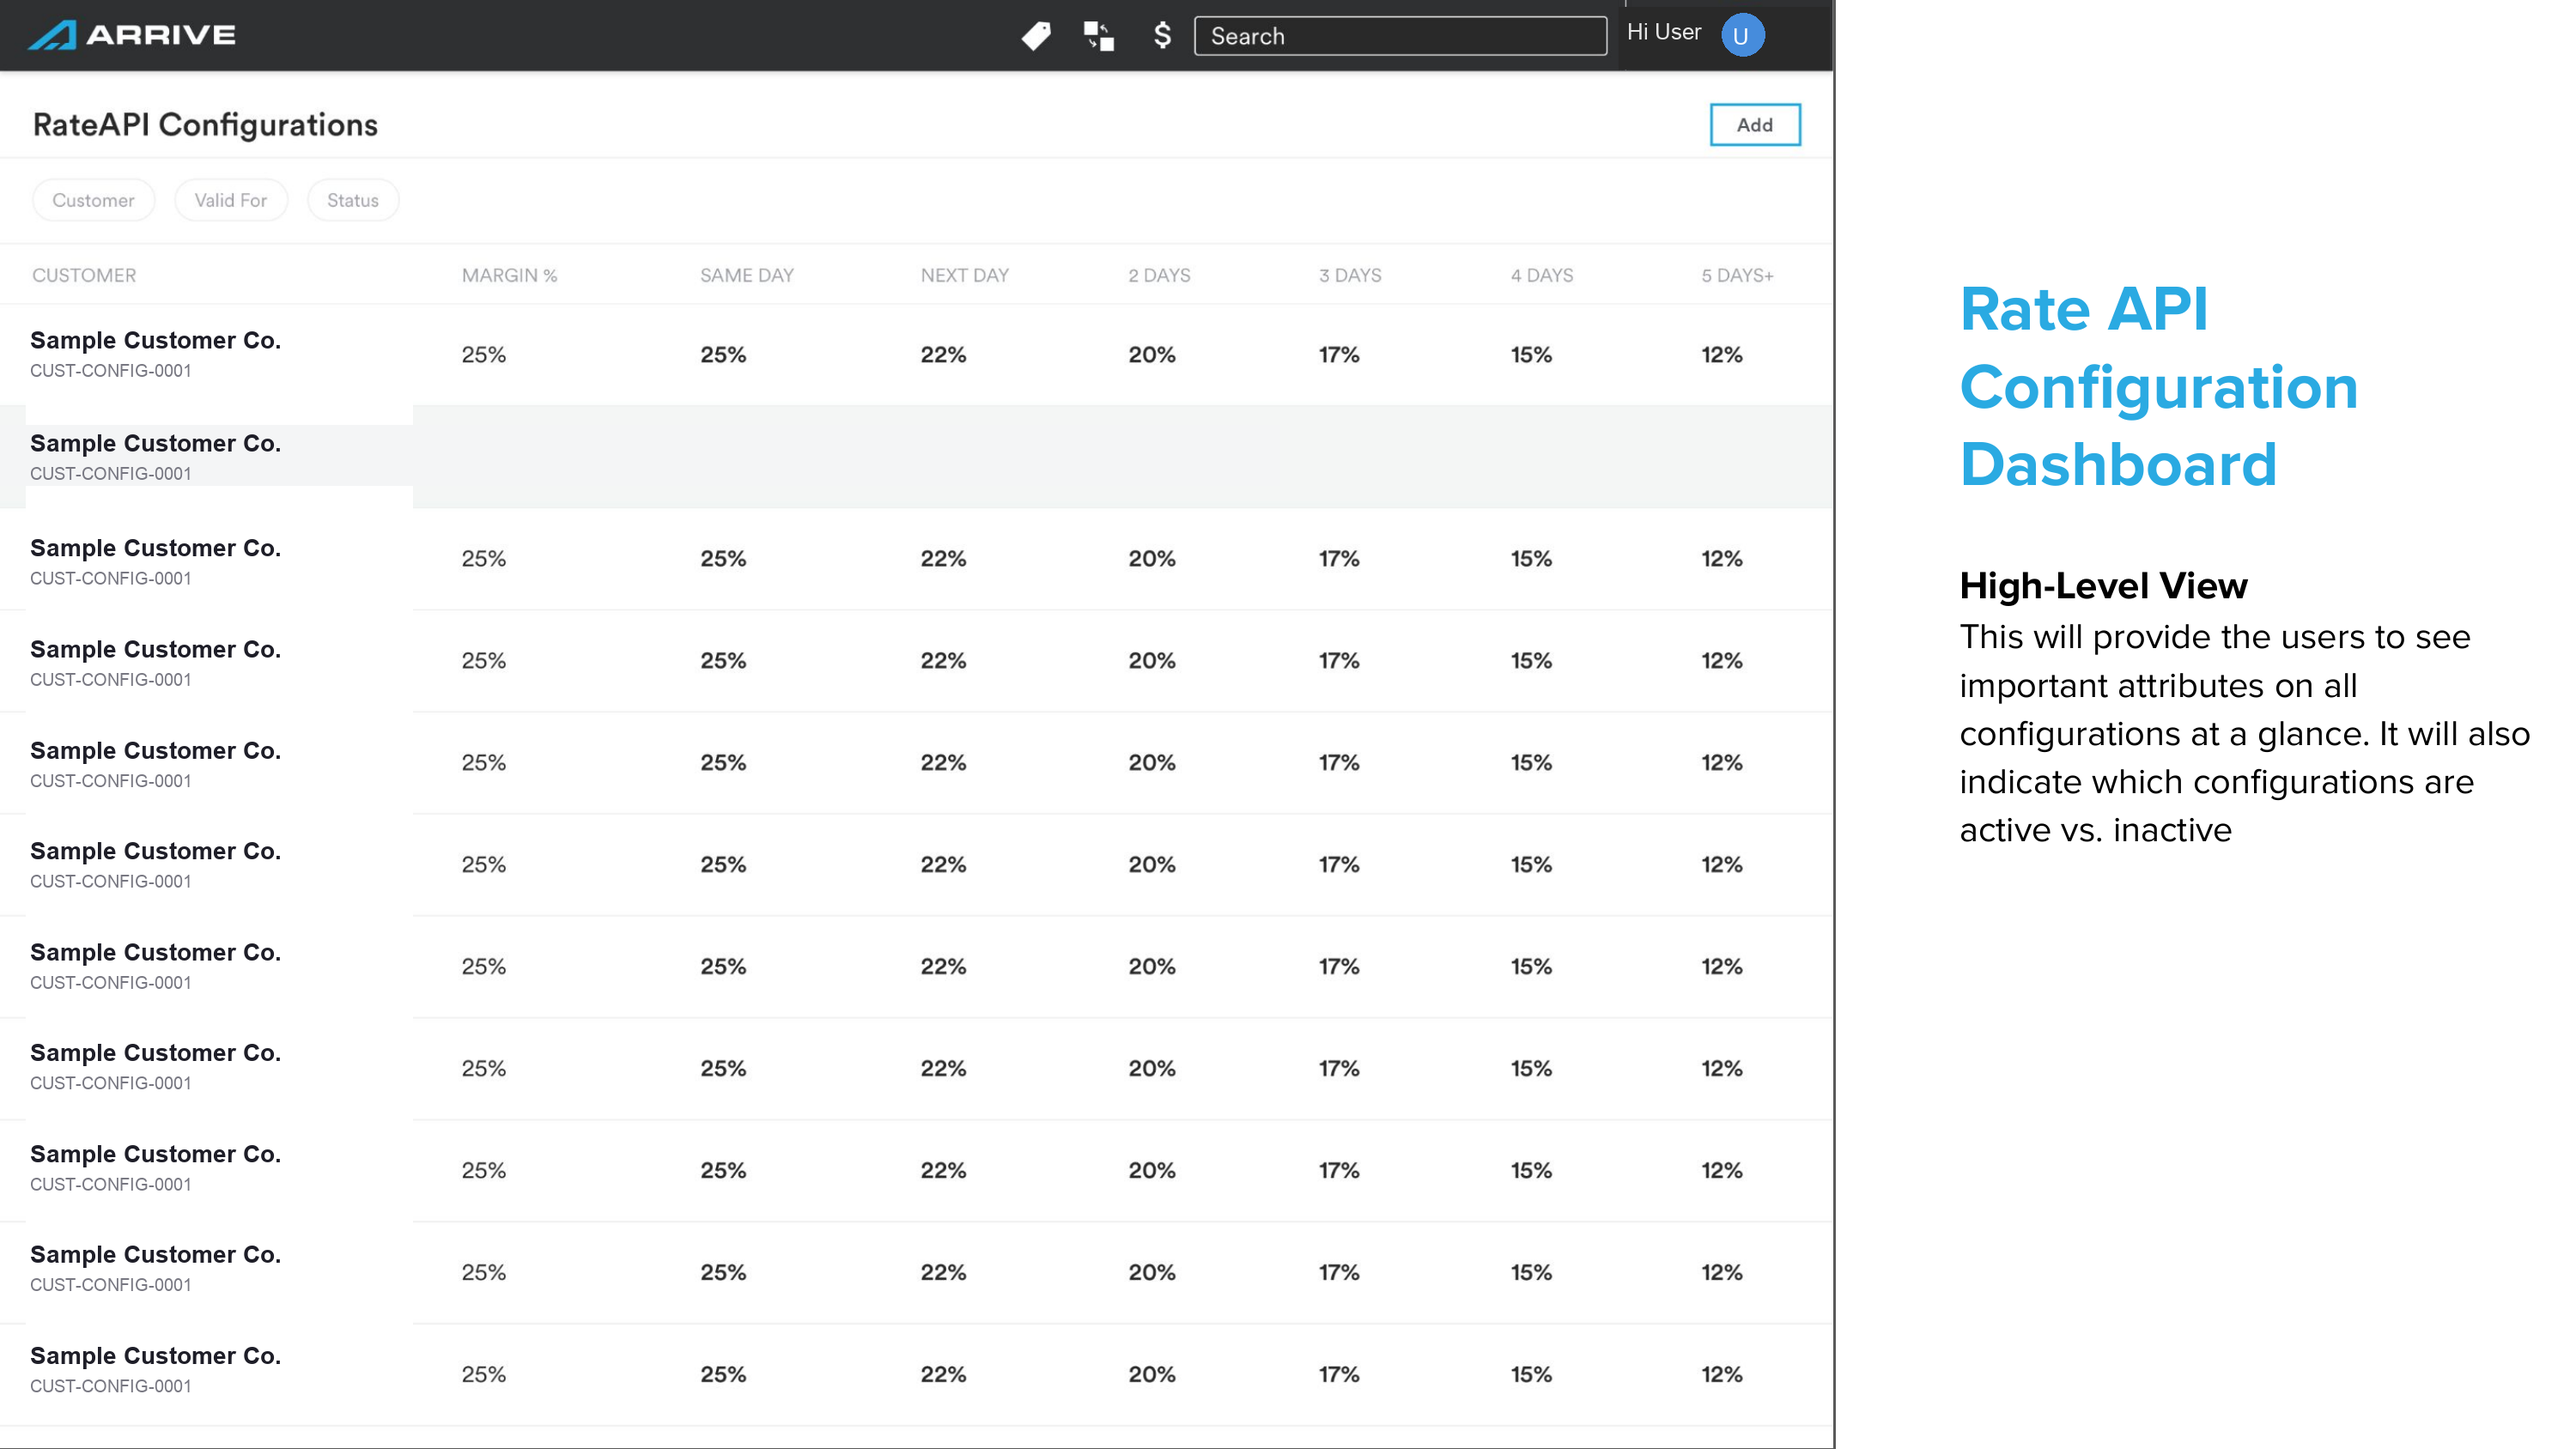
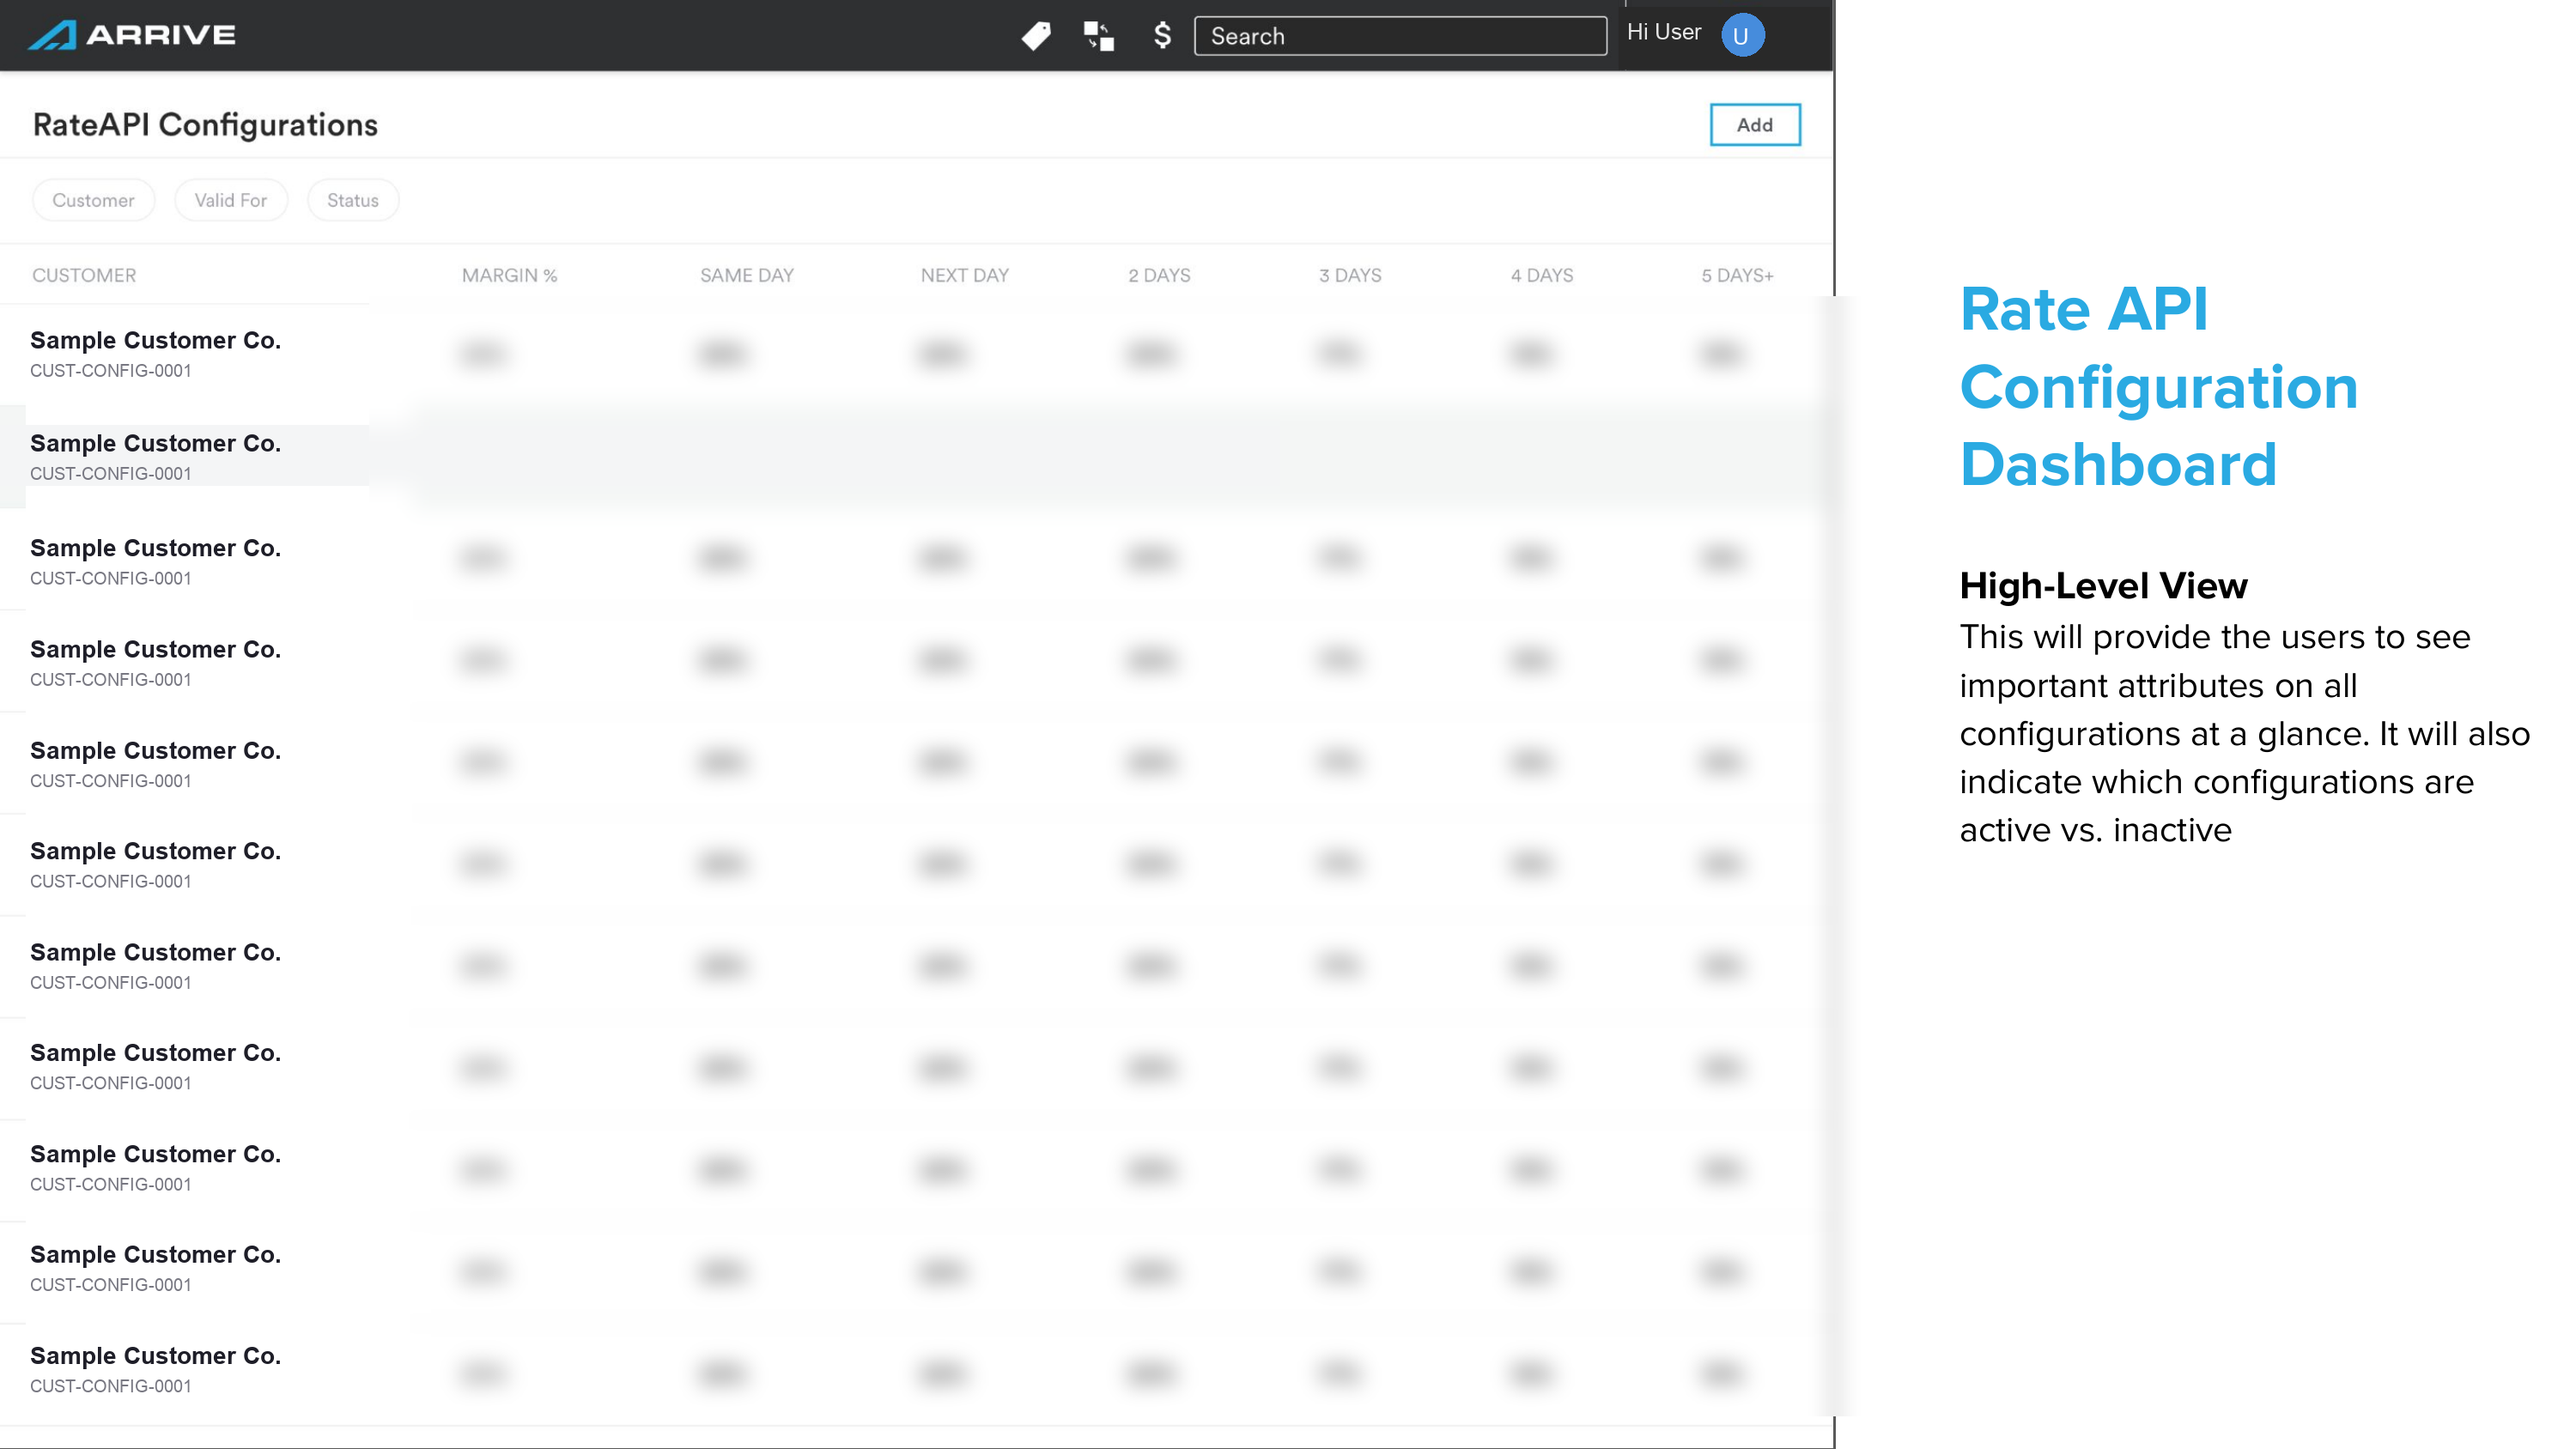
Reframe Spot Quote Tool, blur remaining margins, tighten copy
The Spot Quote Tool section read as if that one tool drove "more
quotes out," when that's really the outcome of the whole ecosystem
working together. Retitled it as the piece that covered manual
quoting, and moved the "more quotes drove revenue" claim to The
outcome, where it belongs to the full system.

Blurred the real margin percentages in the Rate API config screenshot,
missed in the earlier redaction pass that only covered the customer
name. Flattened one "lost in translation" pun in the database section.

diff --git a/src/data/projects.ts b/src/data/projects.ts
@@ -195,7 +195,7 @@ export const projects: CaseStudy[] = [
       },
       {
         heading: 'Normalizing the data',
-        body: "Rate API wasn't the only source feeding pricing. LTL, AVRL, and a cost-prediction tool all had their own formats, and the old database wasn't built to hold any of them consistently. We rebuilt it as the Integrated Pricing Database: one operational table for quote management, one raw table storing every source's data in its native format, normalized enough to report on without losing anything in translation.",
+        body: "Rate API wasn't the only source feeding pricing. LTL, AVRL, and a cost-prediction tool all had their own formats, and the old database wasn't built to hold any of them consistently. We rebuilt it as the Integrated Pricing Database: one operational table for quote management, one raw table storing every source's data in its native format, normalized enough to report on without losing the original detail.",
         artifact: {
           src: '/work/pricing-database-schema.png',
           alt: 'An entity relationship diagram for the Integrated Pricing Database, showing tables for quote details, load quoting, load tenders, bids, stops, and opportunity management.',
@@ -203,8 +203,8 @@ export const projects: CaseStudy[] = [
         },
       },
       {
-        heading: 'Getting more quotes out',
-        body: "None of it mattered if reps couldn't actually get a quote out the door. The Spot Quote Tool let reps generate and log quotes manually when they needed to, and we rebuilt its layout around what a rep actually needed first, cost history, market capacity, and risk, instead of a wall of numbers. A Quote Activity Board gave account teams a searchable log of every quote, automated or manual, so Client Solutions could pull one up and make an adjustment instead of digging through email threads to find what it was based on. More quotes moving through the system, faster, is what actually drove the revenue.",
+        heading: 'The last piece: manual quotes',
+        body: "Rate API and the database covered automated quoting, but not every request could go through it, reps still needed a way to quote manually. The Spot Quote Tool covered that gap, and we rebuilt its layout around what a rep actually needed first, cost history, market capacity, and risk, instead of a wall of numbers. A Quote Activity Board gave account teams a searchable log of every quote, automated or manual, so Client Solutions could pull one up and make an adjustment instead of digging through email threads to find what it was based on.",
         artifact: {
           src: '/work/pricing-spot-quote-before-after.png',
           alt: 'A before and after comparison of the Spot Quote Tool: the original layout is dense and hard to scan, the redesigned layout leads with rate calculator, cost history, and market capacity.',
@@ -213,7 +213,7 @@ export const projects: CaseStudy[] = [
       },
       {
         heading: 'The outcome',
-        body: "Segment revenue scaled 2.3x, from roughly $170M to a $400M+ run rate, about 10% of total company revenue, priced by a system built from 0 to 1 instead of a person. I led the go-to-market alongside building it, sitting between sales and engineering to get it adopted. Years later, it's still the same core architecture: one Rate API, one pricing database, and the tools built on top of it.",
+        body: "Segment revenue scaled 2.3x, from roughly $170M to a $400M+ run rate, about 10% of total company revenue. More quotes moving through the system, automated and manual together, is what actually drove that, priced by a system built from 0 to 1 instead of a person. I led the go-to-market alongside building it, sitting between sales and engineering to get it adopted. Years later, it's still the same core architecture: one Rate API, one pricing database, and the tools built on top of it.",
         artifact: {
           src: '/work/pricing-ecosystem.png',
           alt: 'An architecture diagram showing the full pricing ecosystem: API Gateway, Rate API, Quoting Service, a config sync service, the Integrated Pricing Database, Snowflake, and the Rate API Configs and Quote Activity Board UIs.',
